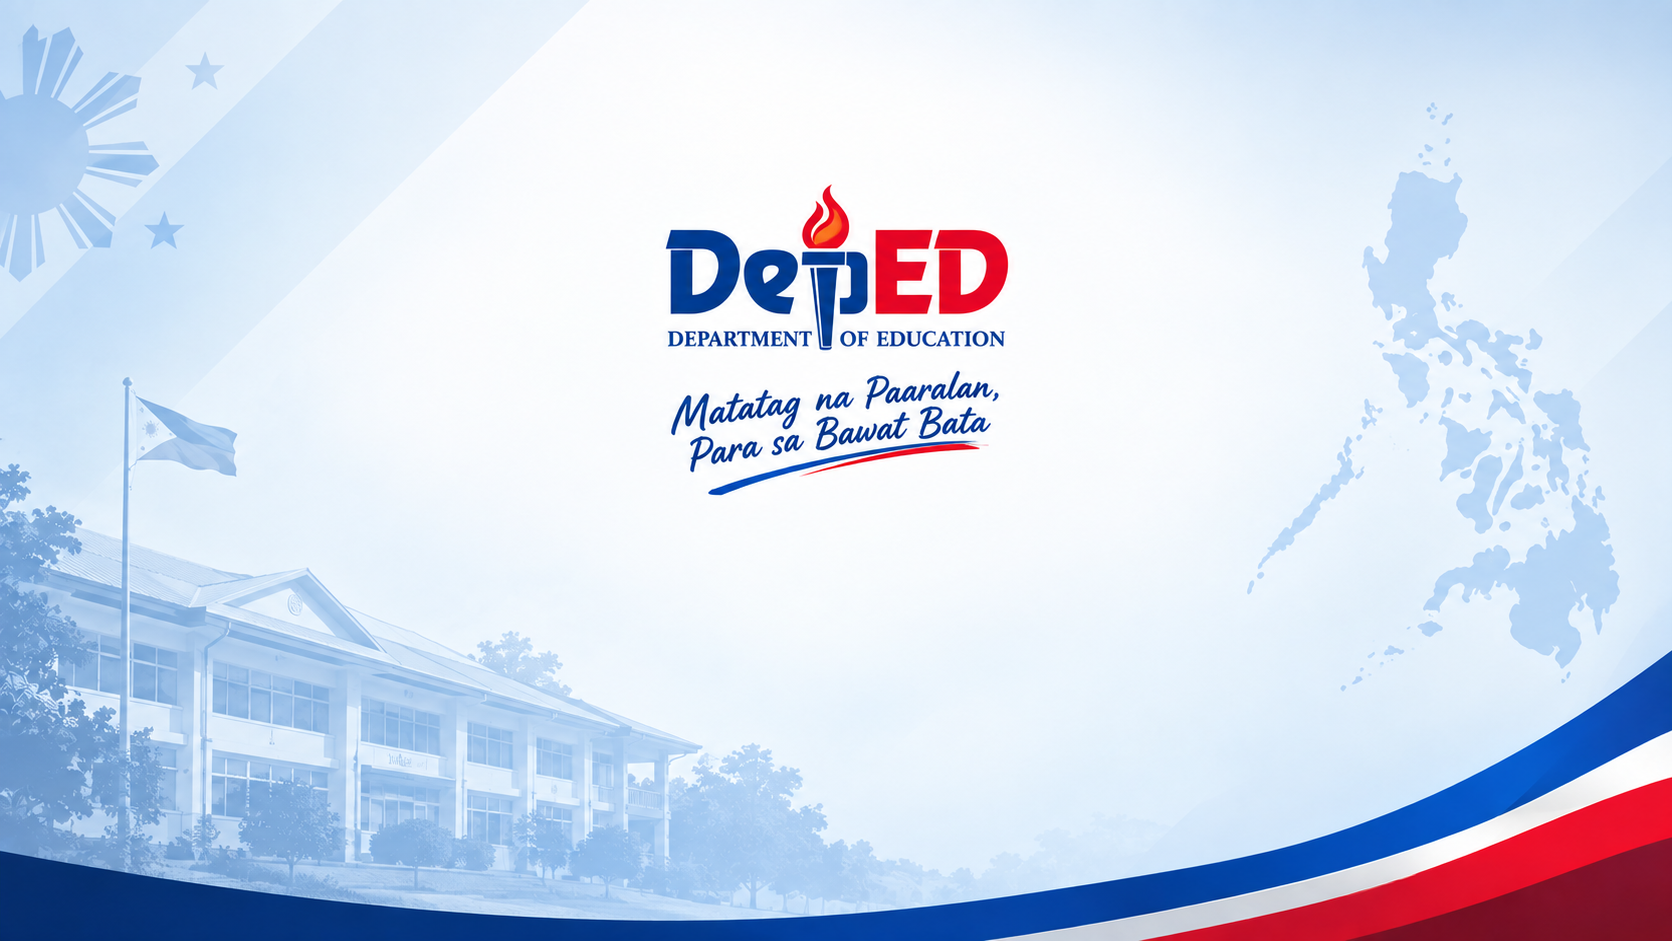
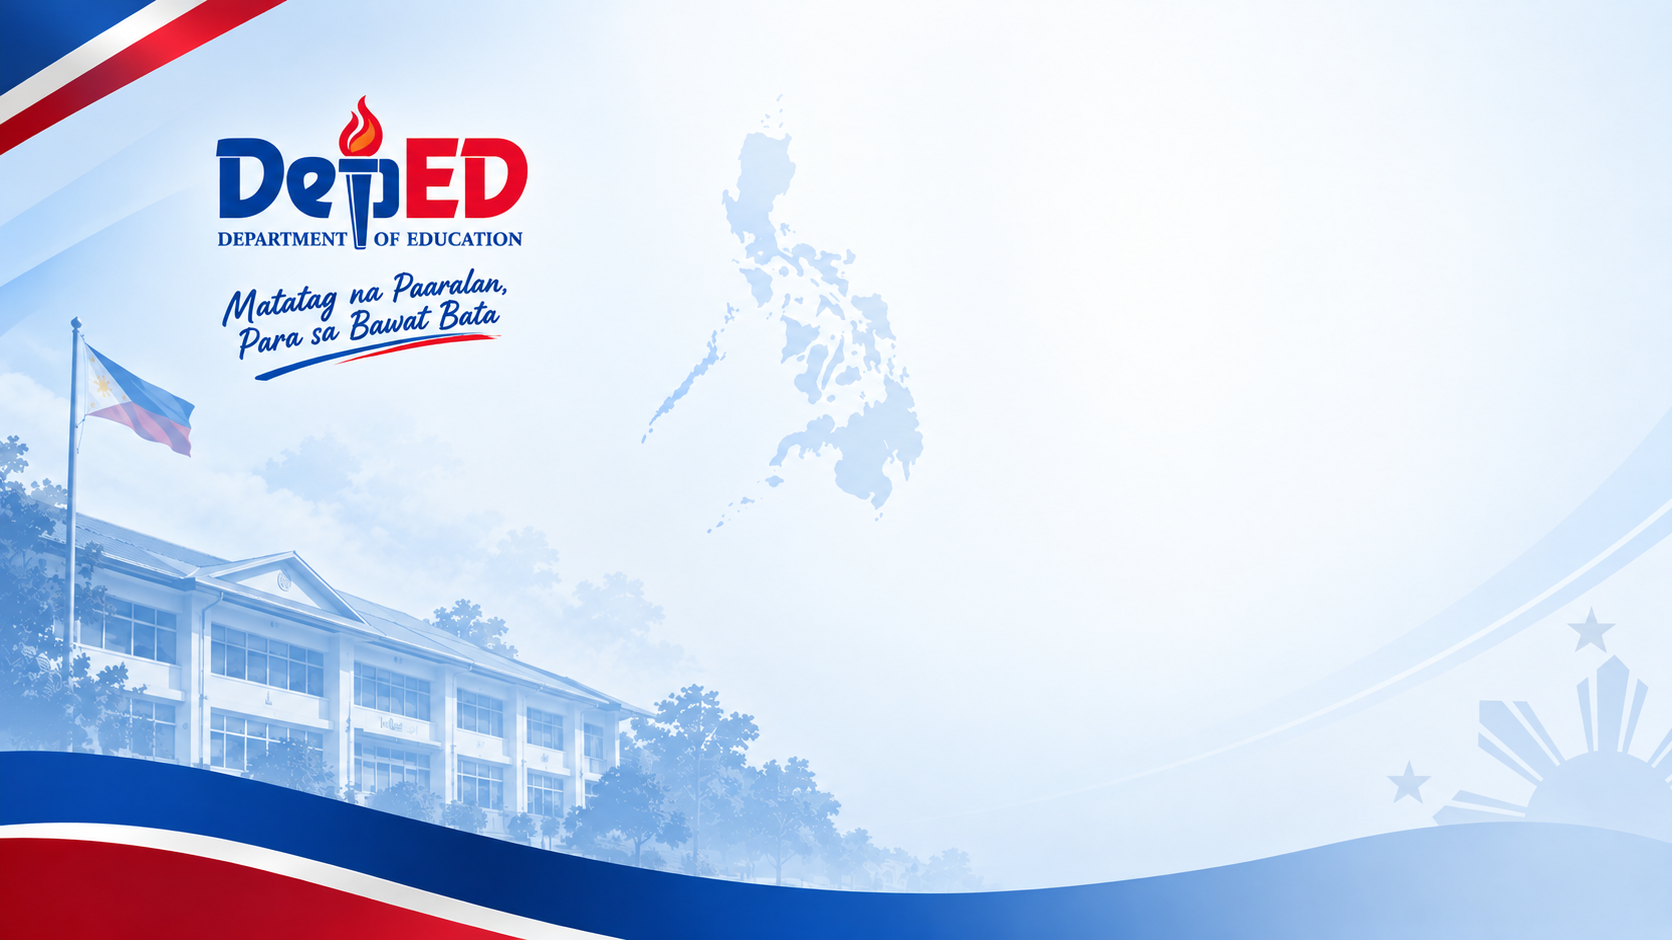
feat: position login section on the right side of desktop screen

diff --git a/src/pages/portal/SchoolConnectLoginPage.tsx b/src/pages/portal/SchoolConnectLoginPage.tsx
@@ -93,7 +93,7 @@ export function SchoolConnectLoginPage() {
       </header>
 
       {/* Login Card Form */}
-      <main className="relative z-10 flex-1 flex items-center justify-center p-4 py-8 sm:py-12">
+      <main className="relative z-10 flex-1 flex items-center justify-center md:justify-end px-4 sm:px-8 md:px-16 lg:px-24 py-8 sm:py-12 w-full">
         <div className="w-full max-w-md space-y-6">
           <div className="text-center space-y-2">
             <div className="inline-flex items-center gap-1.5 px-3.5 py-1 rounded-full bg-white/85 backdrop-blur-md border border-white/60 text-[#0B1F3A] text-xs font-bold shadow-xs">
